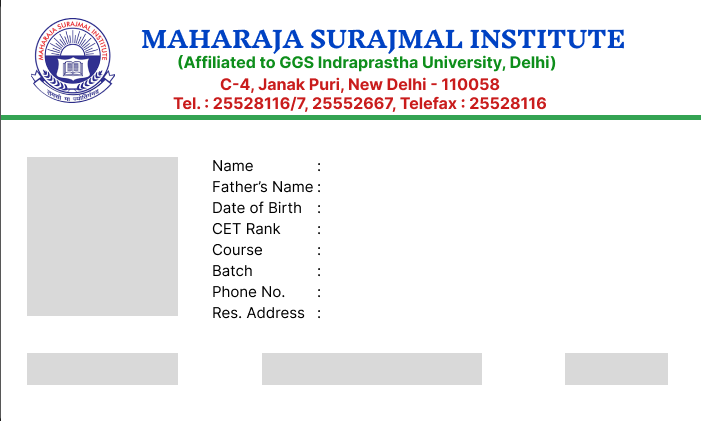
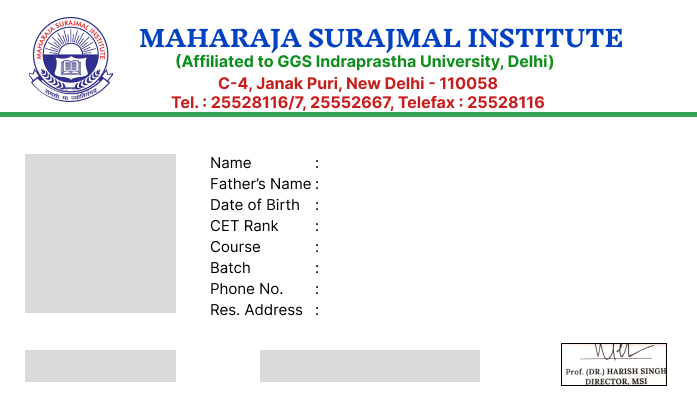
BaseImg Updated, script updated

diff --git a/id_gen_logic.py b/id_gen_logic.py
@@ -4,13 +4,30 @@ import pandas as pd
 from barcode import Gs1_128
 from barcode.writer import ImageWriter
 import os
+import sys
 
 
+def resource_path(relative_path):
+    """ Get the absolute path to the resource, works for dev and for PyInstaller. """
+    try:
+        # PyInstaller creates a temporary folder and stores path in _MEIPASS
+        base_path = sys._MEIPASS
+    except AttributeError:
+        base_path = os.path.abspath(".")
+
+    return os.path.join(base_path, relative_path)
+
+
+# Use resource_path to access SampleIDCard.png
+image_path = resource_path("SampleIDCard.png")
+
+# x and y signifies location of 'Name'
 # (x, y) for the first detail (i.e name), x -> const, y -> changes
-X, Y = 330, 158
+X, Y = 326, 155
 # line spacing, to update y
 DIS = 21
 
+# To create a folder in desktop
 desktop_path = os.path.join(os.path.expanduser("~"), "Desktop")
 folder_name = "GeneratedIDCards"
 folder_path = os.path.join(desktop_path, folder_name)
@@ -19,6 +36,7 @@ if not os.path.exists(folder_path):
     os.mkdir(folder_path)
 
 
+# Func imp -> If Residential Address is too long, it will wrap to next line
 def wrap(text):
     wrapped_text = ""
     line_length = 0
@@ -31,6 +49,7 @@ def wrap(text):
     return wrapped_text
 
 
+# To generate barcodes
 def barcode_gen(barcode_num):
     my_code = Gs1_128(barcode_num, writer=ImageWriter())
     my_code.save("amazingBarcode")
@@ -41,17 +60,22 @@ def pic_download(url, filename):
         url = url.replace("open", "uc")
         output_path = f"{filename}.jpg"
         gdown.download(url, output_path)
+        return True
 
     except Exception as e:
-        print(f"Failed to download the img : {e}")
+        print("Can't download file")
+        return False
 
 
 def pic_to_place(img, pic_name, resize_tuple, loc_tuple, output_name, to_crop=False):
     if type(img) == str:
         img = Image.open(f"{folder_path}/{img}.png")
+
     dp = Image.open(f"{pic_name}")
+
     if to_crop:
         dp = dp.crop((10, 150, 300, 180))
+
     dp = dp.resize(resize_tuple)  # To fill into the size
     new_image = img.copy()  # So that it doesn't effect the real imamge
     new_image.paste(dp, loc_tuple)  # Pasting the dp on new_img(copy of img), at (30, 160)
@@ -70,7 +94,7 @@ def generate(csv_path, batch_year):
         year = batch_year
         output_name = f"{df.iloc[i, 0]}-{rank}"
 
-        img = Image.open("SampleIDCard.png")
+        img = Image.open(image_path)
         editing = ImageDraw.Draw(img)
         for j in range(len(df.iloc[i])):
             if j <= 4:
@@ -81,25 +105,27 @@ def generate(csv_path, batch_year):
                 editing.text((X, Y + DIS * j), wrap(str(df.iloc[i,j-1])), (0,0,0), font)
             else:
                 url = df.iloc[i, j-1]
-                pic_download(url, "dp")
+                can_donwload = pic_download(url, "dp")
+                if not can_donwload:
+                    return "Can't download the img, check the visibility mode"
                 # base-img, resize tuple, location tuple, output name
-                pic_to_place(img, "dp.jpg", (144, 153), (30, 160), output_name)
+                pic_to_place(img, "dp.jpg", (150, 158), (27, 154), output_name)
 
                 url = df.iloc[i, j]
                 pic_download(url, "signature")
-                pic_to_place(output_name, "Signature.jpg", (150, 30), (26, 352), output_name)
+                pic_to_place(output_name, "Signature.jpg", (150, 31), (25, 350), output_name)
 
         year = "".join(year.split("-"))
         barcode_num = "0" * (10 - (len(rank) + 4)) + f"{rank}{year}"
         barcode_gen(barcode_num)
 
         # Placing the barcode
-        pic_to_place(output_name, "amazingBarcode.png", (220, 40), (262, 352), output_name, True)
+        pic_to_place(output_name, "amazingBarcode.png", (220, 40), (259, 349), output_name, True)
 
         # Adding the barcode number
         img = Image.open(f"{folder_path}/{output_name}.png")
         editing = ImageDraw.Draw(img)
-        editing.text((320,395), barcode_num, (0,0,0), font)
+        editing.text((314,389), barcode_num, (0,0,0), font)
         filepath = os.path.join(folder_path, f"{output_name}.png")
         img.save(filepath)
 

diff --git a/main.py b/main.py
@@ -56,7 +56,7 @@ batch_year = ctk.StringVar()
 csv_label = ctk.CTkLabel(app, text="Selected CSV:")
 csv_label.grid(row=0, column=0, padx=20, pady=(20, 0), sticky="w")
 
-csv_display = ctk.CTkLabel(app, text="No file selected", fg_color="gray75", corner_radius=6)
+csv_display = ctk.CTkLabel(app, text="No file selected", fg_color="black", corner_radius=6)
 csv_display.grid(row=1, column=0, padx=20, pady=(0, 10), sticky="ew")
 
 csv_button = ctk.CTkButton(app, text="Select CSV", command=select_csv)
